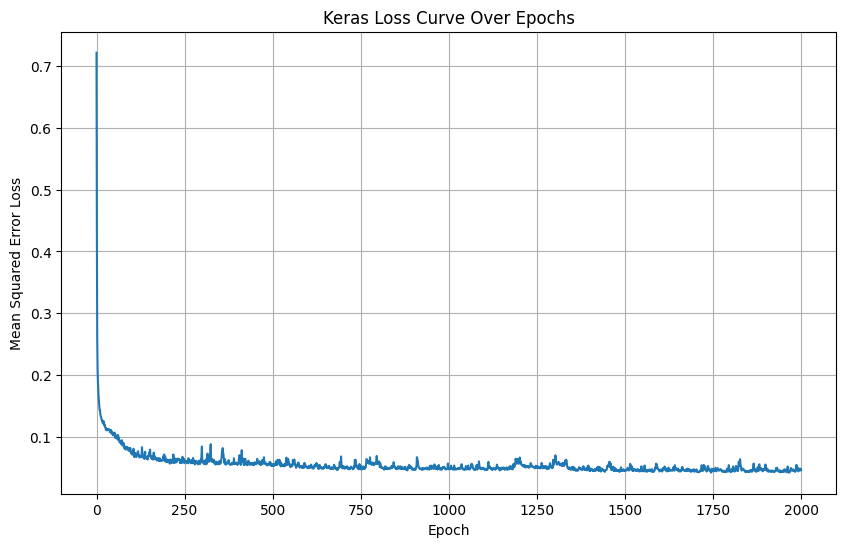
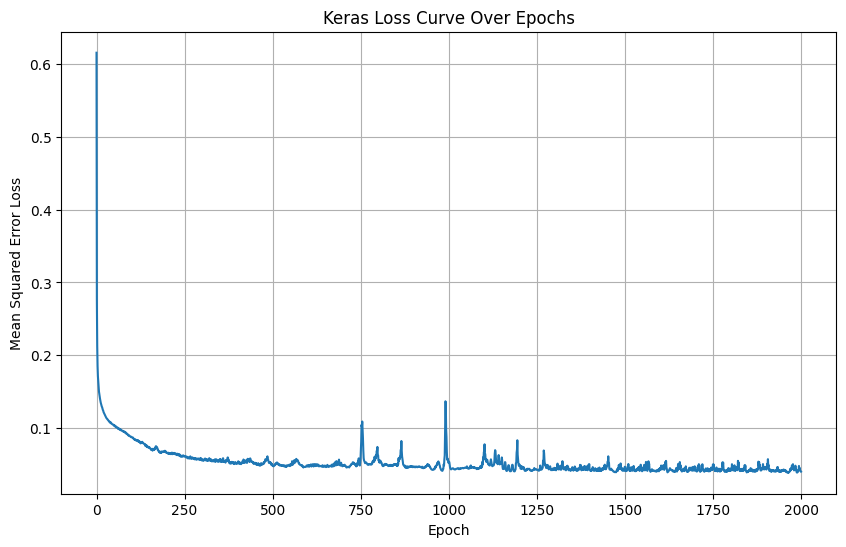
mlp final

diff --git a/02-mlp-grade-prediction/README.md b/02-mlp-grade-prediction/README.md
@@ -15,7 +15,7 @@ Student Performance dataset (`student-mat.csv`), using features `studytime`,
 
 | Metric | Scratch (NumPy) | TensorFlow/Keras |
 |--------|------------------|-------------------|
-| MSE    | 4.8123           | 3.3207            |
+| MSE    | 4.8123           | 5.1125            |
 | MAE    | 1.5383           | 1.1727           |
 
 ![Loss Curve — Scratch](assets/loss_curve_scratch.png)
